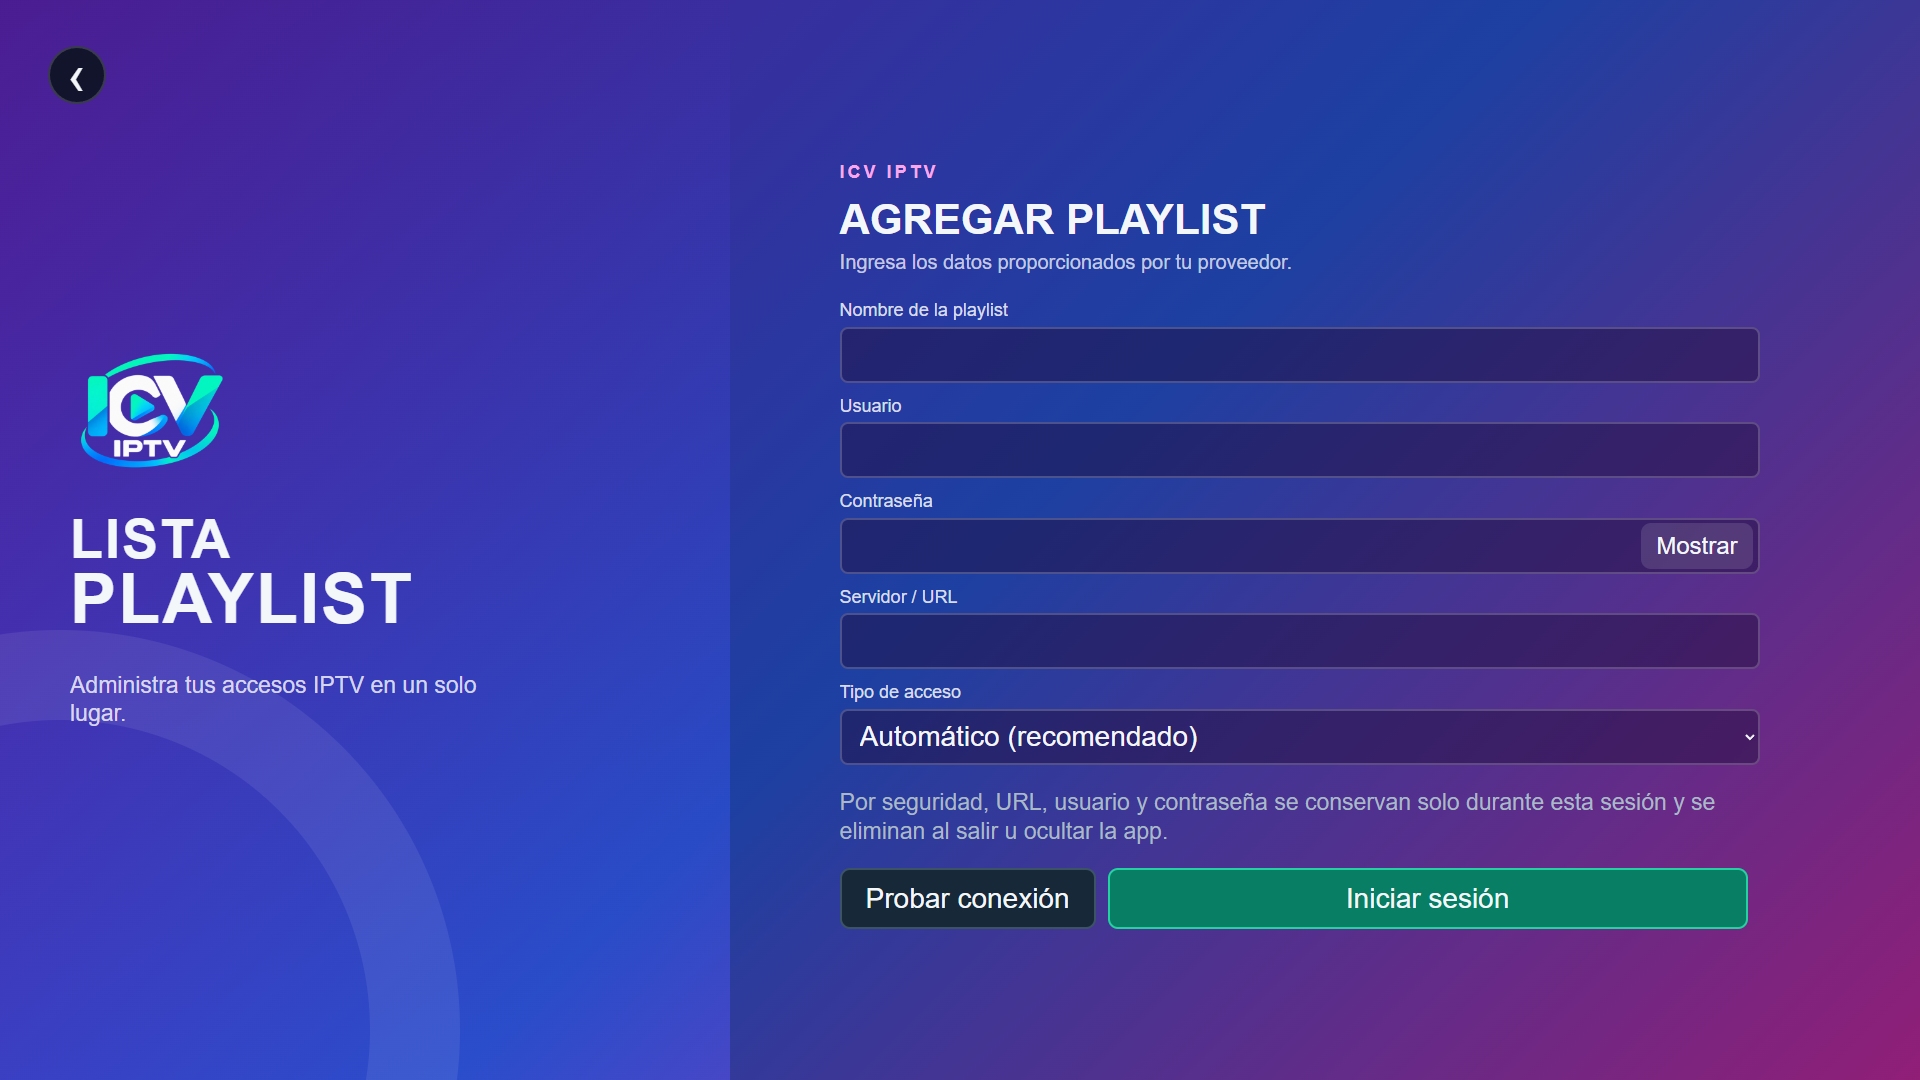
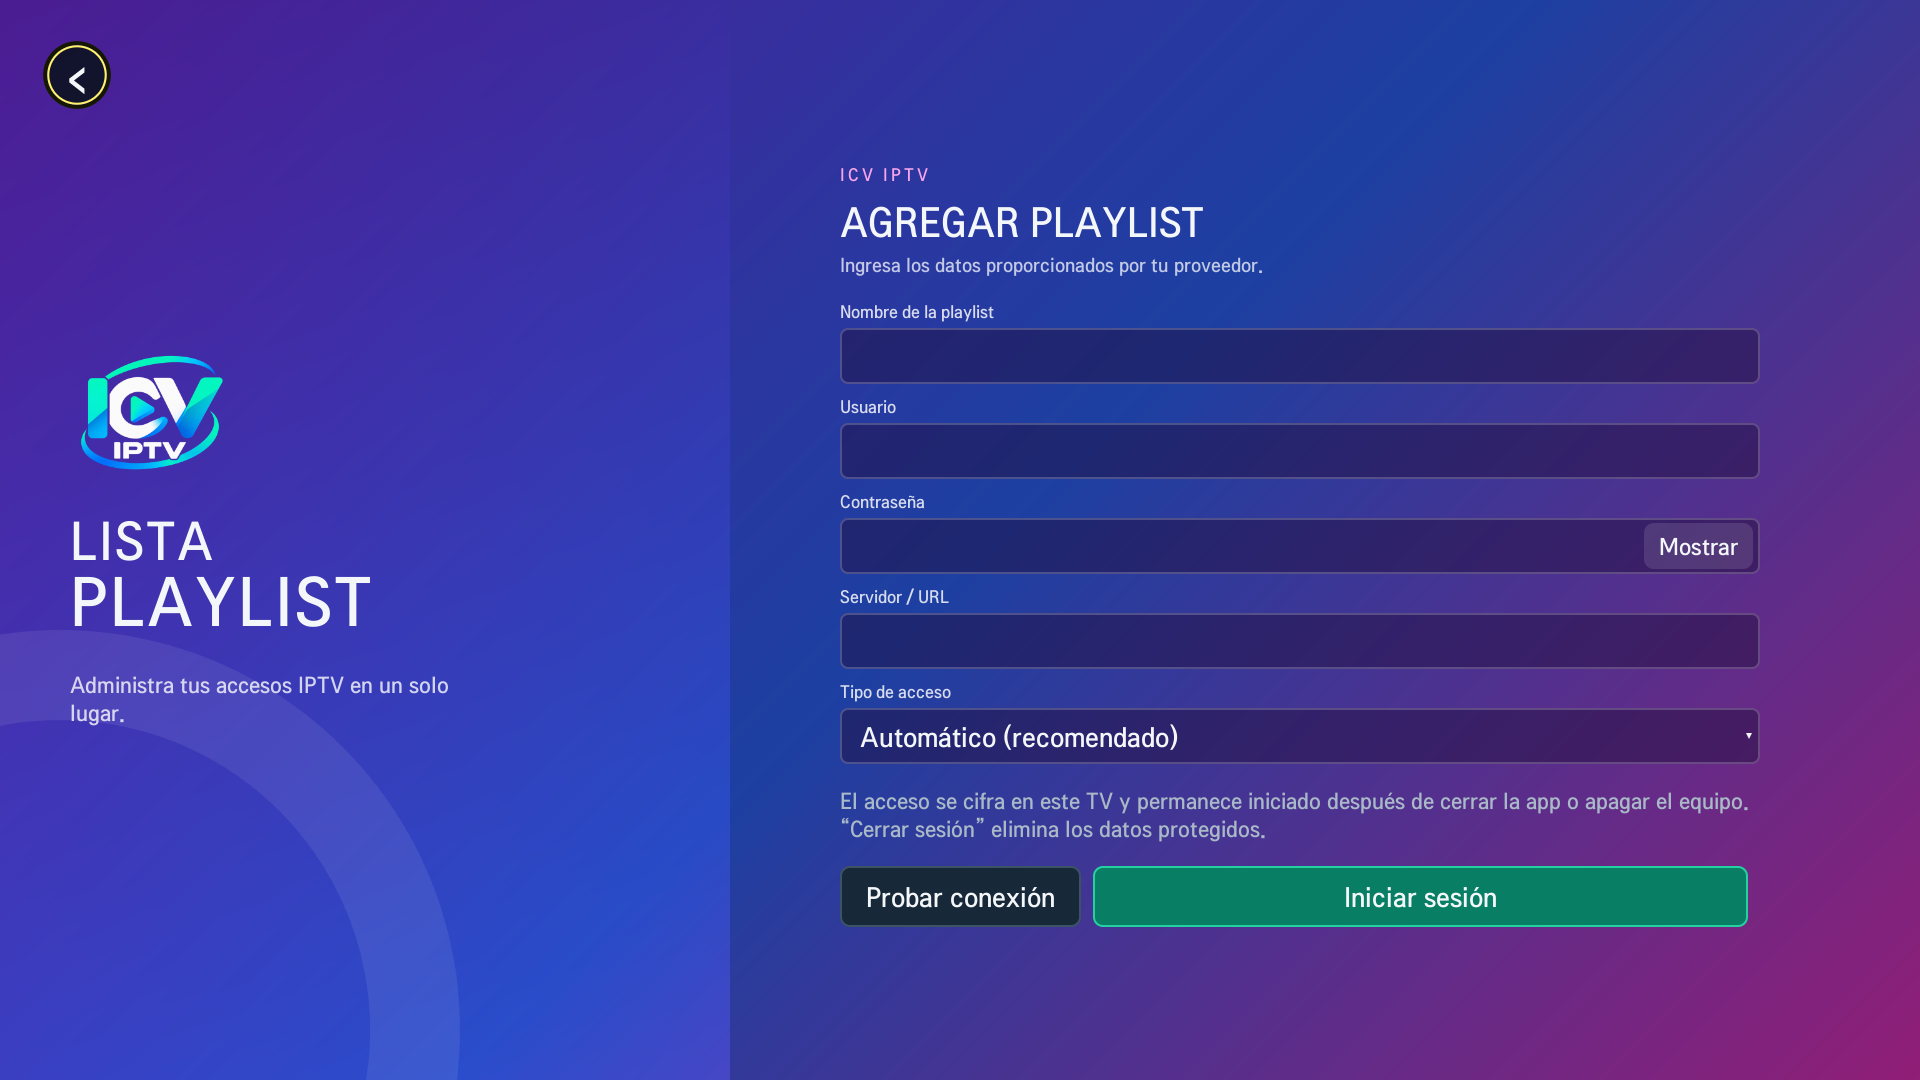
fix: actualizar capturas publicas a v2.5.3

diff --git a/index.html b/index.html
@@ -83,13 +83,13 @@
       <div class="section-heading">
         <p class="eyebrow">Pantallas reales</p>
         <h2>La interfaz de ICV IPTV.</h2>
-        <p>Capturas directas de la aplicación, sin contenido comercial de terceros.</p>
+        <p>Capturas directas de ICV IPTV v2.5.3 en TV1, sin credenciales ni contenido comercial de terceros.</p>
       </div>
       <div class="screenshot-grid">
-        <figure><img src="assets/screenshots/01-home.png" alt="Inicio real de ICV IPTV con TV en vivo, películas, series y accesos rápidos" loading="lazy"><figcaption>Inicio y módulos principales</figcaption></figure>
-        <figure><img src="assets/screenshots/03-secure-login.png" alt="Pantalla real para agregar una playlist con aviso de credenciales solo durante la sesión" loading="lazy"><figcaption>Acceso IPTV protegido por sesión</figcaption></figure>
-        <figure><img src="assets/screenshots/04-demo-catalog.png" alt="Catálogo de demostración de ICV IPTV" loading="lazy"><figcaption>Catálogo y navegación</figcaption></figure>
-        <figure><img src="assets/screenshots/06-license.png" alt="Pantalla de licencia de ICV IPTV" loading="lazy"><figcaption>Prueba y planes disponibles</figcaption></figure>
+        <figure><img src="assets/screenshots/01-home.png?v=2.5.3" alt="Inicio de ICV IPTV v2.5.3 con TV en vivo, películas, series y accesos rápidos" loading="lazy"><figcaption>Inicio y módulos principales</figcaption></figure>
+        <figure><img src="assets/screenshots/03-secure-login.png?v=2.5.3" alt="Formulario vacío de ICV IPTV v2.5.3 para agregar una playlist sin exponer credenciales" loading="lazy"><figcaption>Acceso IPTV protegido en el televisor</figcaption></figure>
+        <figure><img src="assets/screenshots/04-demo-catalog.png?v=2.5.3" alt="Catálogo legal de demostración en ICV IPTV v2.5.3" loading="lazy"><figcaption>Catálogo y navegación</figcaption></figure>
+        <figure><img src="assets/screenshots/06-license.png?v=2.5.3" alt="Licencia de ICV IPTV v2.5.3 con ICVSTORE, soporte oficial y planes vigentes" loading="lazy"><figcaption>Licencia, soporte y planes vigentes</figcaption></figure>
       </div>
     </section>
 

diff --git a/tests/run-tests.js b/tests/run-tests.js
@@ -1,4 +1,5 @@
 const assert = require('node:assert/strict');
+const crypto = require('node:crypto');
 const fs = require('node:fs');
 const path = require('node:path');
 
@@ -7,8 +8,21 @@ const read = (name) => fs.readFileSync(path.join(root, name), 'utf8');
 const index = read('index.html');
 const sitemap = read('sitemap.xml');
 const legalRoutes = ['privacidad.html', 'terminos.html', 'reembolsos.html', 'soporte.html'];
+const screenshotHashes = {
[4 lines of base64/hex data omitted]
+};
 
 assert.ok(index.includes('href="styles.css?v=1.0.0"'), 'la portada debe invalidar la caché de estilos al publicar v1.0.0');
+assert.equal((index.match(/assets\/screenshots\/.+?\?v=2\.5\.3/g) || []).length, 4, 'todas las capturas públicas deben invalidar caché y corresponder a v2.5.3');
+
+for (const [name, expectedHash] of Object.entries(screenshotHashes)) {
+  // Los hashes impiden que una captura antigua vuelva a publicar datos personales o precios obsoletos silenciosamente.
+  const data = fs.readFileSync(path.join(root, 'assets', 'screenshots', name));
+  assert.equal(crypto.createHash('sha256').update(data).digest('hex').toUpperCase(), expectedHash, `${name} no coincide con la evidencia TV1 v2.5.3 aprobada`);
+}
 
 for (const route of legalRoutes) {
   assert.ok(fs.existsSync(path.join(root, route)), `falta la ruta pública ${route}`);

diff --git a/PROJECT.md b/PROJECT.md
@@ -9,10 +9,10 @@ Sitio oficial de pre-lanzamiento de ICV IPTV, dirigido inicialmente a usuarios d
 - Sitio estático publicado y operativo mediante GitHub Pages.
 - Repositorio público: `ICVPROJECTS/ICVPROJECTS.github.io`.
 - URL pública: `https://icvprojects.github.io`.
-- La versión v1.0.0 conserva el sitio como prelanzamiento sin checkout y añade únicamente información necesaria para compra futura: términos de recurrencia, paso a paso, política de cancelación/reembolso y enlace a la SIC.
+- La versión v1.0.1 conserva el sitio como prelanzamiento sin checkout y publica exclusivamente capturas TV1 v2.5.3; la pantalla Licencia ya muestra `ICVSTORE`, `icvstore01@gmail.com`, cuatro planes vigentes y no expone el correo personal ni el nombre civil en imágenes promocionales.
 - El despliegue `pages-build-deployment #15` finalizó correctamente el 2026-11-06 para el commit `48aa80f`; portada, flujo de seis pasos, privacidad, términos, reembolsos, soporte y enlace SIC se verificaron en producción.
 - Los planes y documentos legales se identifican como información de prelanzamiento; por diseño la web no contiene formularios, endpoints ni checkout.
-- La fuente incluye una galería con cuatro capturas reales 1920×1080, retención conforme al marco colombiano y licencia intransferible por TV. El precio total, moneda e impuestos aplicables deberán mostrarse en el checkout aprobado; la web no afirma que el procesador asuma obligaciones tributarias del vendedor.
+- La fuente incluye una galería con cuatro capturas reales 1920×1080 del mismo corte v2.5.3 de TV1: Inicio, formulario vacío de playlist, catálogo demo legal y Licencia. El precio total, moneda e impuestos aplicables deberán mostrarse en el checkout aprobado; la web no afirma que el procesador asuma obligaciones tributarias del vendedor.
 - La versión v0.3.0 pasó validación a 1440×1000 y 390×844 sin desbordamiento y quedó publicada mediante `pages-build-deployment #4`; la portada y las cuatro rutas públicas se verificaron en producción.
 - La identidad comercial visible es ICVSTORE y el canal de soporte vigente es `icvstore01@gmail.com`; el vendedor legal continúa siendo Ivan Cano Velez como persona natural hasta que exista una entidad jurídica distinta.
 - El estado interno, las puertas de aprobación, las versiones candidatas y los detalles de QA permanecen exclusivamente en la documentación privada del proyecto.
@@ -30,7 +30,7 @@ icvprojects.github.io/
 ├─ 404.html            recuperación de rutas inexistentes
 ├─ styles.css          sistema visual responsive y accesible
 ├─ logo-icv.png        identidad visual reutilizada de la aplicación
-├─ assets/screenshots/ cuatro capturas reales de la candidata comercial
+├─ assets/screenshots/ cuatro capturas TV1 verificadas de la candidata v2.5.3
 ├─ robots.txt          reglas públicas para rastreadores
 ├─ sitemap.xml         rutas públicas principales
 ├─ .nojekyll           evita transformaciones Jekyll innecesarias
@@ -60,7 +60,7 @@ icvprojects.github.io/
 - SEO básico mediante descripción, `robots.txt` y `sitemap.xml`.
 - Accesibilidad básica: enlace de salto, estructura semántica, foco visible, contraste y reducción de movimiento.
 - Maquetación verificada a 1440×1000 y 390×844 sin desbordamiento horizontal.
-- Galería responsive de pantallas reales: Inicio, acceso IPTV protegido localmente, catálogo demo legal y Licencia.
+- Galería responsive de pantallas v2.5.3: Inicio, formulario vacío de playlist, catálogo demo legal y Licencia con identidad/soporte vigentes.
 
 ## Particularidades y lecciones aprendidas
 
@@ -74,6 +74,7 @@ icvprojects.github.io/
 - Privacidad y términos son informativos de pre-lanzamiento. Deben actualizarse después de definir procesador, hosting, retención, domicilio legal y reglas comerciales, y someterse a revisión jurídica antes de la publicación en tienda.
 - ICVSTORE es la marca y el propietario comercial mostrado al usuario; no debe sustituir el nombre legal de la persona natural en trámites KYC, fiscales o contractuales mientras no exista una sociedad registrada con ese nombre.
 - La marca utiliza el activo maestro de la aplicación para mantener continuidad visual sin introducir recursos remotos.
+- Las cuatro capturas públicas están fijadas por SHA256 en la prueba estática; esto evita reintroducir silenciosamente la antigua pantalla v2.0.0 con nombre, correo y precios obsoletos.
 - Privacidad y términos explican que el acceso IPTV se conserva en una bóveda cifrada local para mantener la sesión. También declaran que los webOS antiguos sin Keymanager3 no ofrecen protección TEE frente a un sistema completamente comprometido.
 
 ## Próximos pasos

diff --git a/CHANGELOG.md b/CHANGELOG.md
@@ -1,5 +1,17 @@
 # Registro de cambios
 
+## [v1.0.1] - 2026-11-06
+
+### Cambiado
+
+- Las cuatro capturas visibles fueron sustituidas por evidencia real TV1 v2.5.3 del mismo corte: Inicio, formulario vacío de playlist, catálogo demo legal y Licencia.
+- La pantalla Licencia pública ahora muestra `ICVSTORE`, `icvstore01@gmail.com`, versión 2.5.3 y los cuatro planes vigentes; ya no expone `Ivan Cano Velez`, `ivancanovelez@gmail.com`, prueba de 15 días ni precios antiguos.
+- Los recursos gráficos usan `?v=2.5.3` para invalidar la caché sin modificar las rutas públicas.
+
+### Validado
+
+- La regresión estática verifica los SHA256 exactos de las cuatro capturas aprobadas, evitando que imágenes antiguas vuelvan a publicarse silenciosamente.
+
 ## [v1.0.0] - 2026-11-06
 
 ### Añadido
